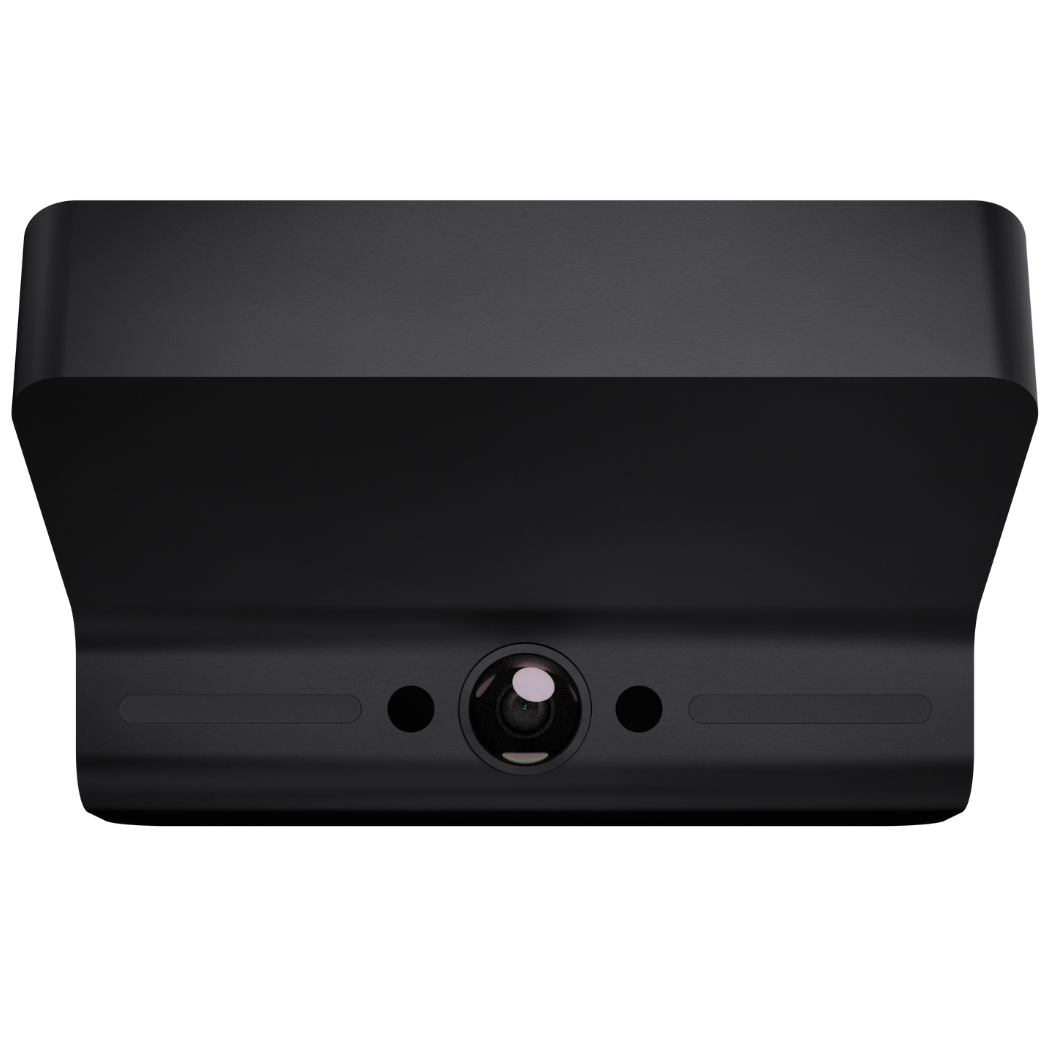
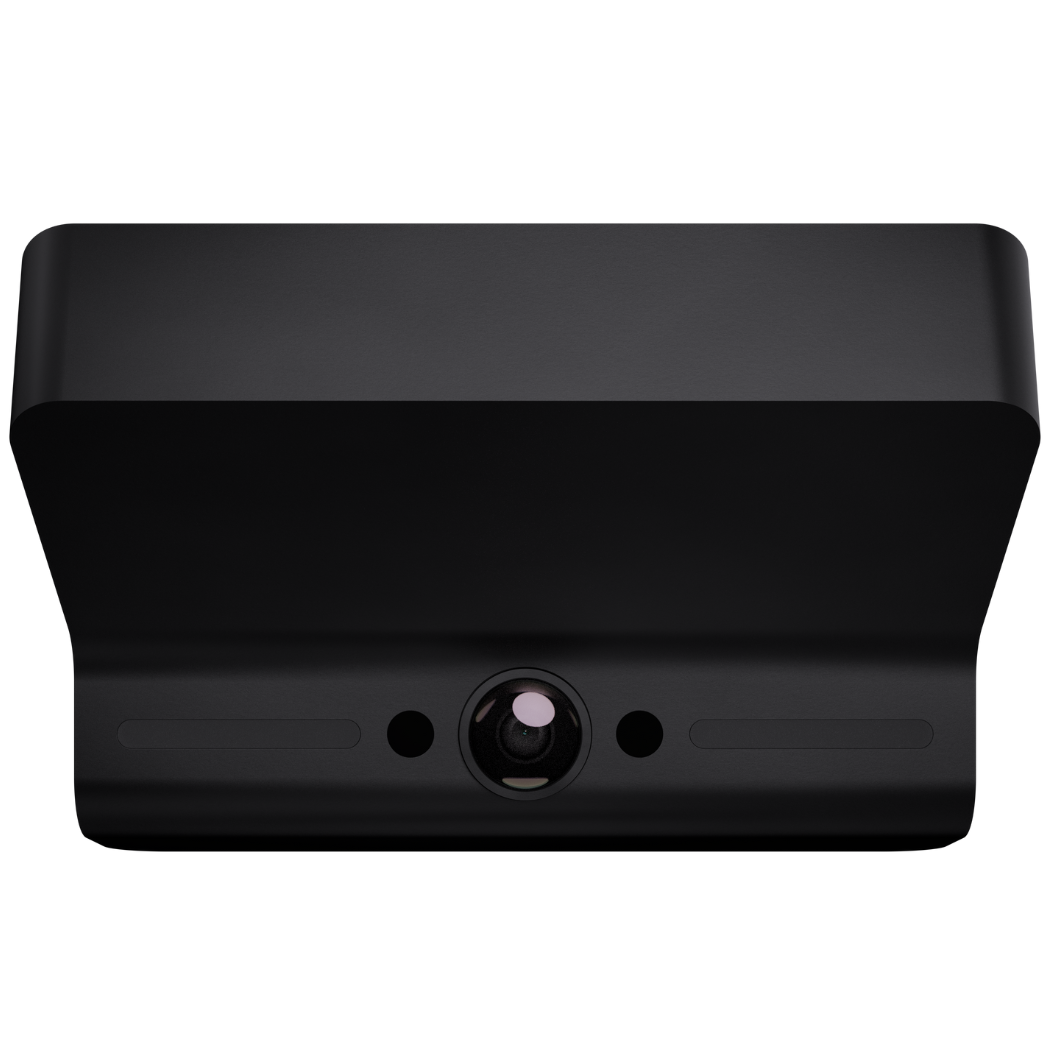
photos

diff --git a/product.html b/product.html
@@ -96,7 +96,7 @@ title: Buy KommuAssist 2
   <div class="grid grid-cols-1 md:grid-cols-[minmax(0,1fr),337px] gap-20 main-grid-top">
     <!-- Product Image -->
     <div class="img-container p-6 product-image-shell place-self-center">
-      <img id="mainProductImg" src="{{ '/img/products/device/product-page-2.webp' | relative_url }}" class="rounded" alt="Main product image">
+      <img id="mainProductImg" src="{{ '/img/products/device/product_page_1.webp' | relative_url }}" class="rounded" alt="Main product image">
 
       <!-- Prev / Next arrows -->
       <button id="prodPrev" type="button" class="carousel-arrow carousel-arrow-left" aria-label="Previous image">
@@ -350,7 +350,7 @@ title: Buy KommuAssist 2
     <!-- captions below, outside the container -->
     <div class="grid grid-cols-1 md:grid-cols-3 gap-6 text-center mt-4">
       <p class="h5 text-gray-light pl-10 md:pl-16">KommuAssist 2</p>
-      <p class="h5 text-gray-light">ADAS connector (with USB-C cable)</p>
+      <p class="h5 text-gray-light">ADAS relay (with connector & USB-C cable)</p>
       <p class="h5 text-gray-light">OBD connector (with USB-C cable)</p>
     </div>
   </div>
@@ -814,7 +814,7 @@ title: Buy KommuAssist 2
 <script>
   (function(){
     const imgs = [
-      "{{ '/img/products/device/product-page-2.webp' | relative_url }}",
+      "{{ '/img/products/device/product_page_1.webp' | relative_url }}",
       "{{ '/img/products/device/checkout_img.webp' | relative_url }}"
     ];
     const imgEl = document.getElementById('mainProductImg');
@@ -925,7 +925,7 @@ title: Buy KommuAssist 2
   (function(){
     const items = [
       { src: "{{ '/img/products/device/wib-1.png' | relative_url }}", caption: 'KommuAssist 2', alt: 'KommuAssist 2' },
-      { src: "{{ '/img/products/device/wib-2.png' | relative_url }}", caption: 'ADAS connector (with USB-C cable)', alt: 'ADAS connector' },
+      { src: "{{ '/img/products/device/wib-2.png' | relative_url }}", caption: 'ADAS relay (with connector & USB-C cable)', alt: 'ADAS connector' },
       { src: "{{ '/img/products/device/wib-3.png' | relative_url }}", caption: 'OBD connector (with USB-C cable)', alt: 'OBD connector' }
     ];
     const imgEl = document.getElementById('boxImg');

diff --git a/support.html b/support.html
@@ -162,7 +162,7 @@ document.addEventListener('DOMContentLoaded', () => {
     </div>
             <!-- Footnotes & T&C -->
     <div class="max-w-6xl mx-auto h6 text-gray px-2">
-        <p>This list is non exhaustive and may not include names and trims available to countries out of Malaysia. Not sure if your car is supported? Contact <a href="mailto:support@kommu.ai" class="underline text-gray-light">support@kommu.ai</a>.</p>
+        <p>This list is non exhaustive and may not include names and trims available to countries out of Malaysia.<br><br>Not sure if your car is supported? Contact <a href="mailto:support@kommu.ai" class="underline text-gray-light">support@kommu.ai</a>.</p>
     </div>
   </div>
 </section>

diff --git a/store.html b/store.html
@@ -287,9 +287,9 @@ document.addEventListener("DOMContentLoaded", () => {
 <section class="px-4 flex justify-center">
   <div class="w-full max-w-[1100px]">
 
-  <h1 class="h1 font-bold mb-6 text-white">Shop Parts</h1>
+  <h1 class="h1 font-bold mb-6 text-white">Shop Accessories</h1>
 
-  {% assign categories = "Hardware,Cables & connectors,Others" | split: "," %}
+  {% assign categories = "Parts,Cables & connectors,Others" | split: "," %}
   {% for category in categories %}
     <h3 class="h3 mt-4 mb-4 text-gray-300">{{ category }}</h3>
     <div class="carousel-wrap">
